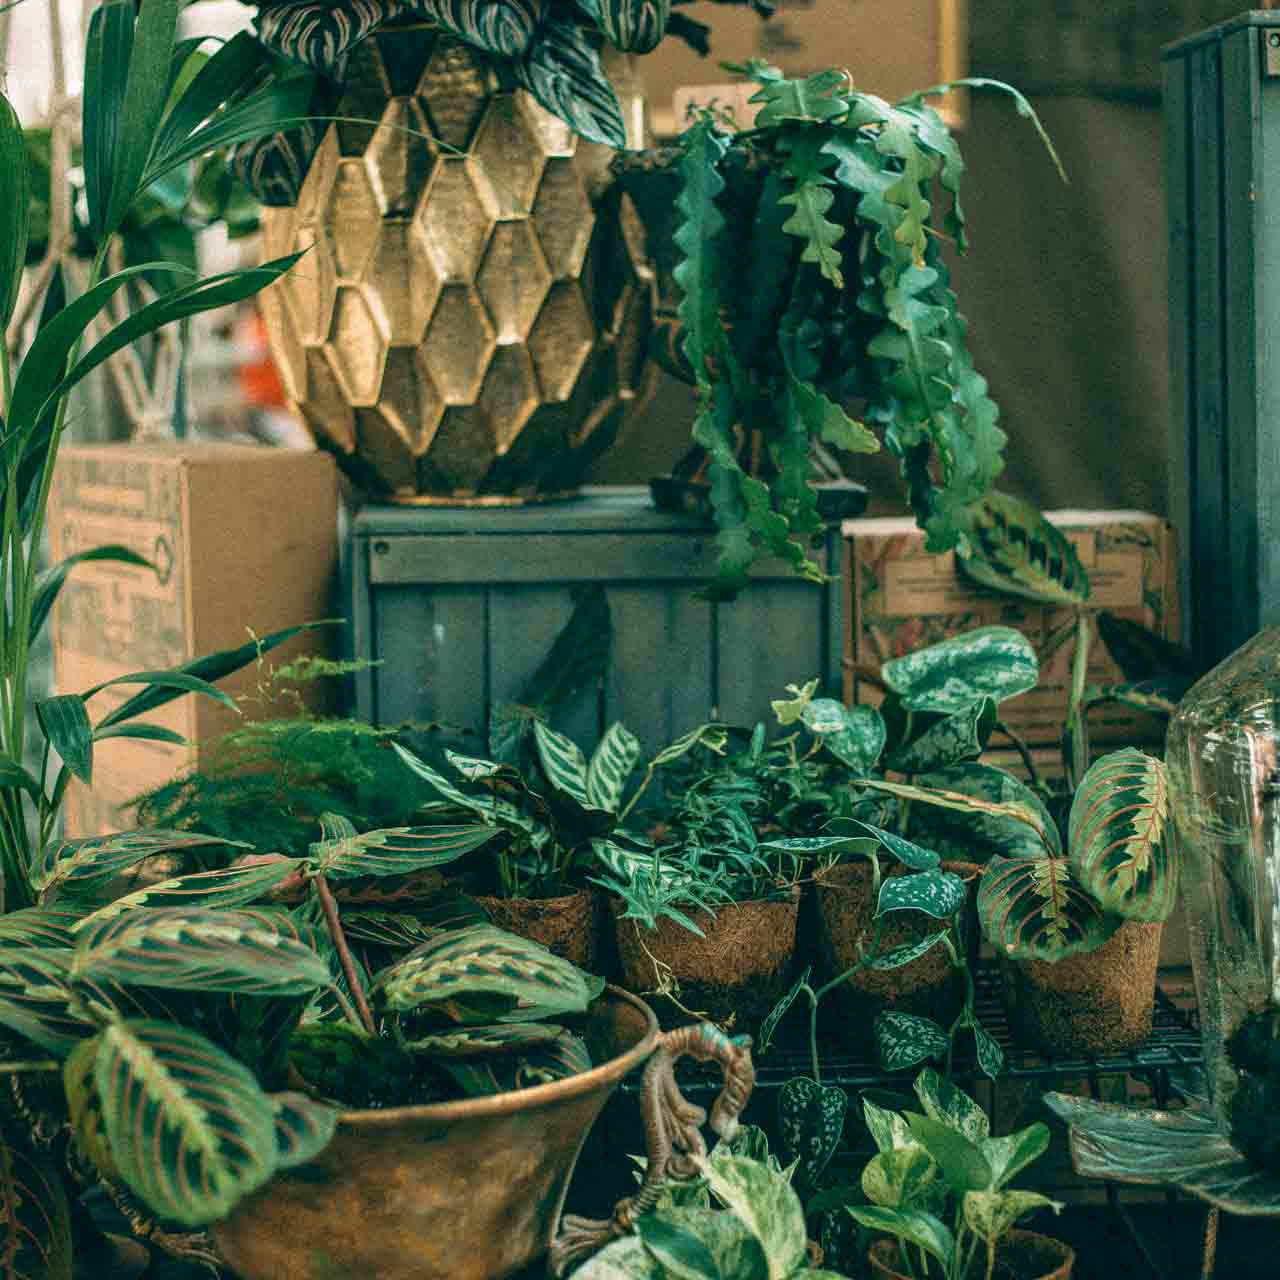
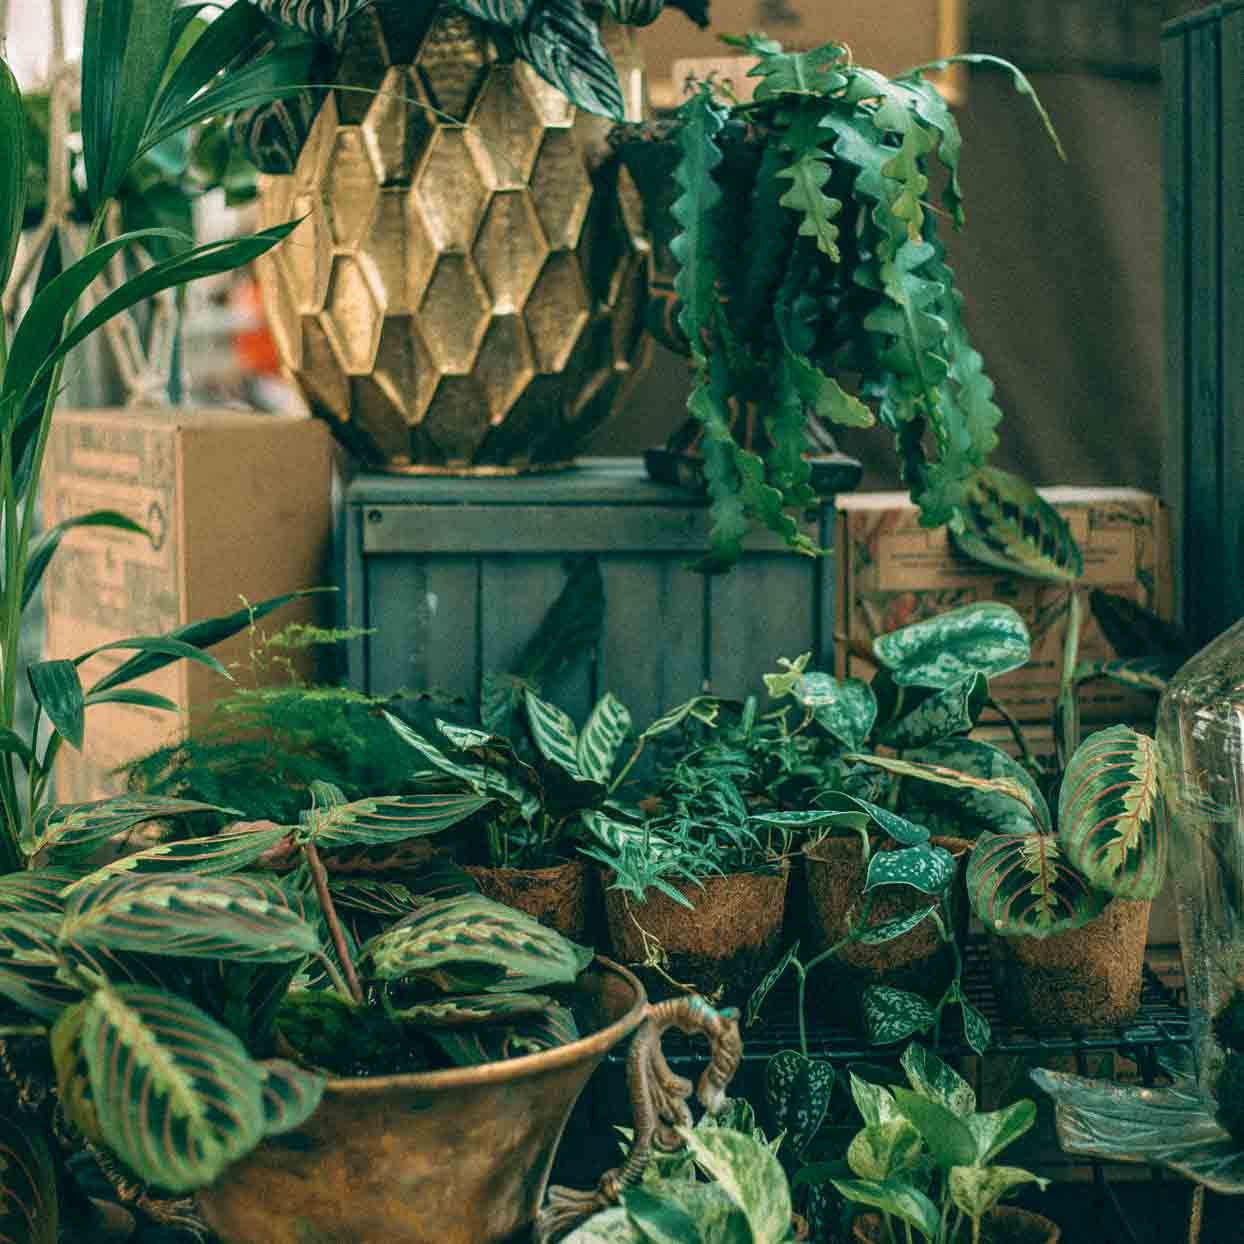
straightened photo on gallerypage

diff --git a/src/main/GalleryPage.css b/src/main/GalleryPage.css
@@ -18,14 +18,15 @@
 
 .GalleryPage .gallery-page h3 {
   font-family: var(--text-paragraph);
-  font-size: 30px;
+  font-size: 28px;
+  line-height: 25px;
   letter-spacing: -1px;
   text-transform: lowercase;
 }
 
 .GalleryPage .gallery-page p {
   font-family: var(--text-paragraph);
-  font-size: 14px;
+  font-size: 13px;
   font-weight: 500;
   line-height: 0;
   text-transform: uppercase;
@@ -257,6 +258,7 @@
 
   .GalleryPage .gallery-page h3 {
     font-size: 23px;
+    line-height: 20px;
     letter-spacing: -0.5px;
   }
 
